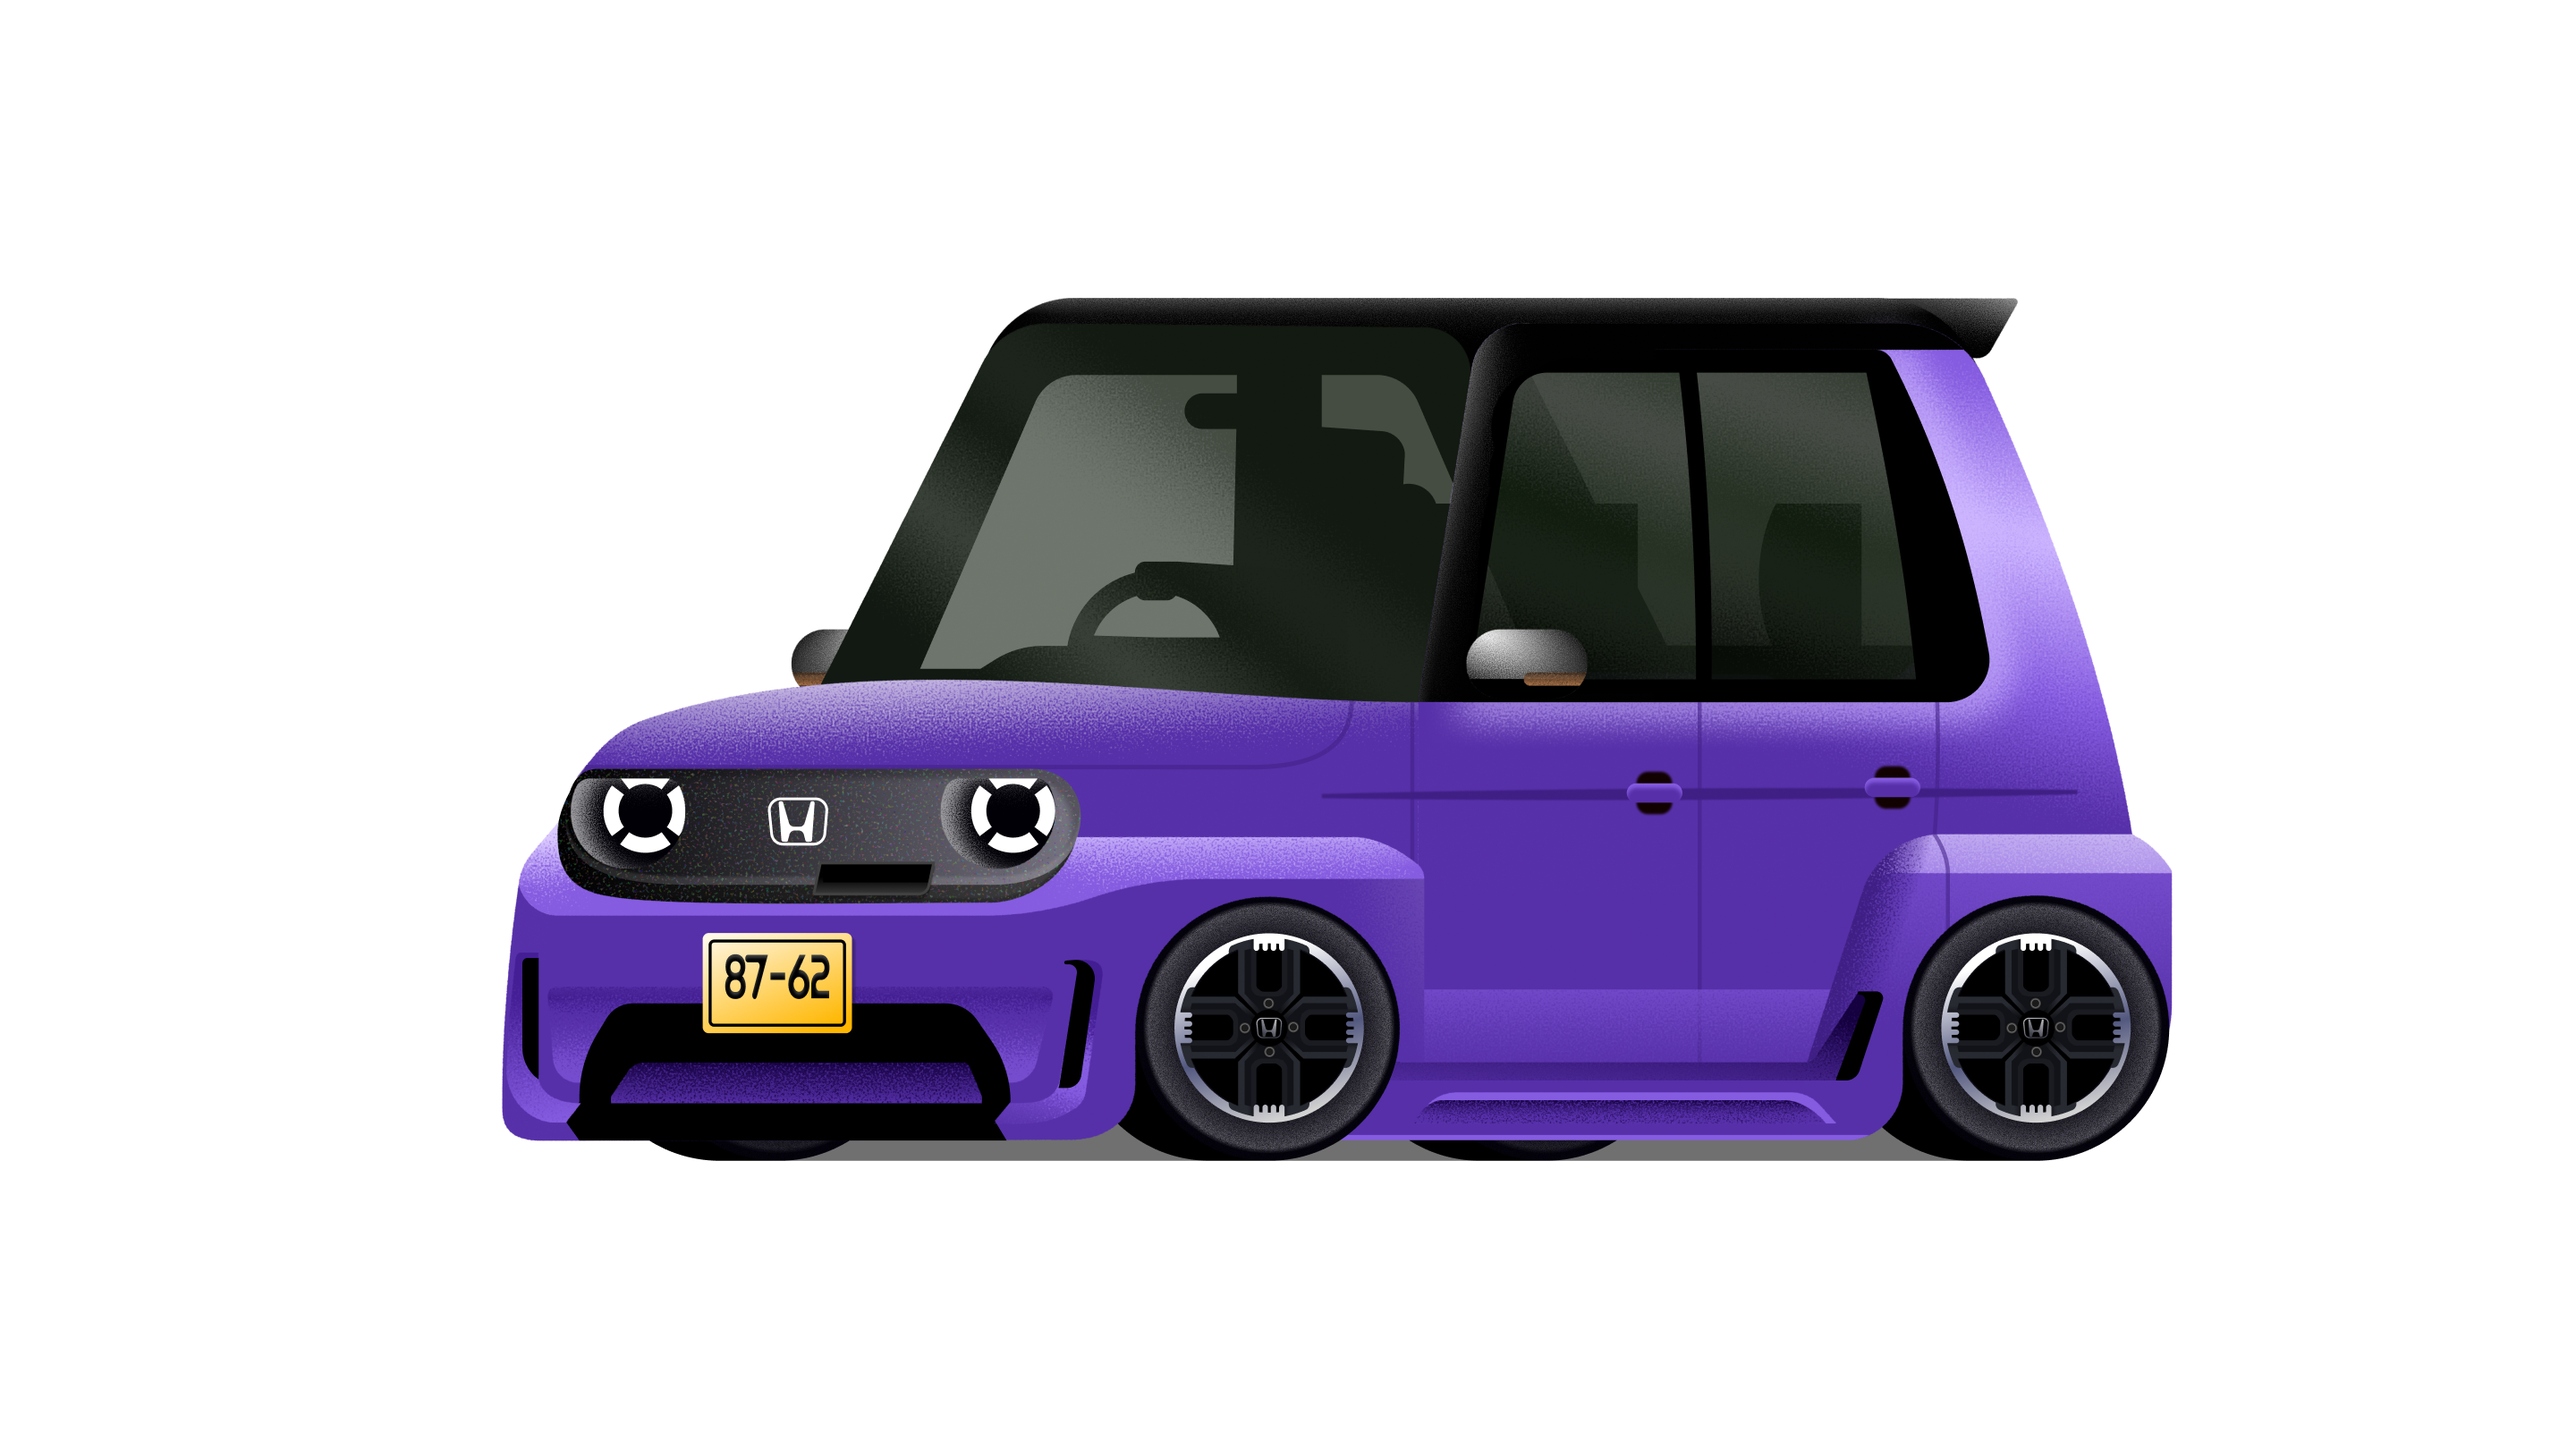
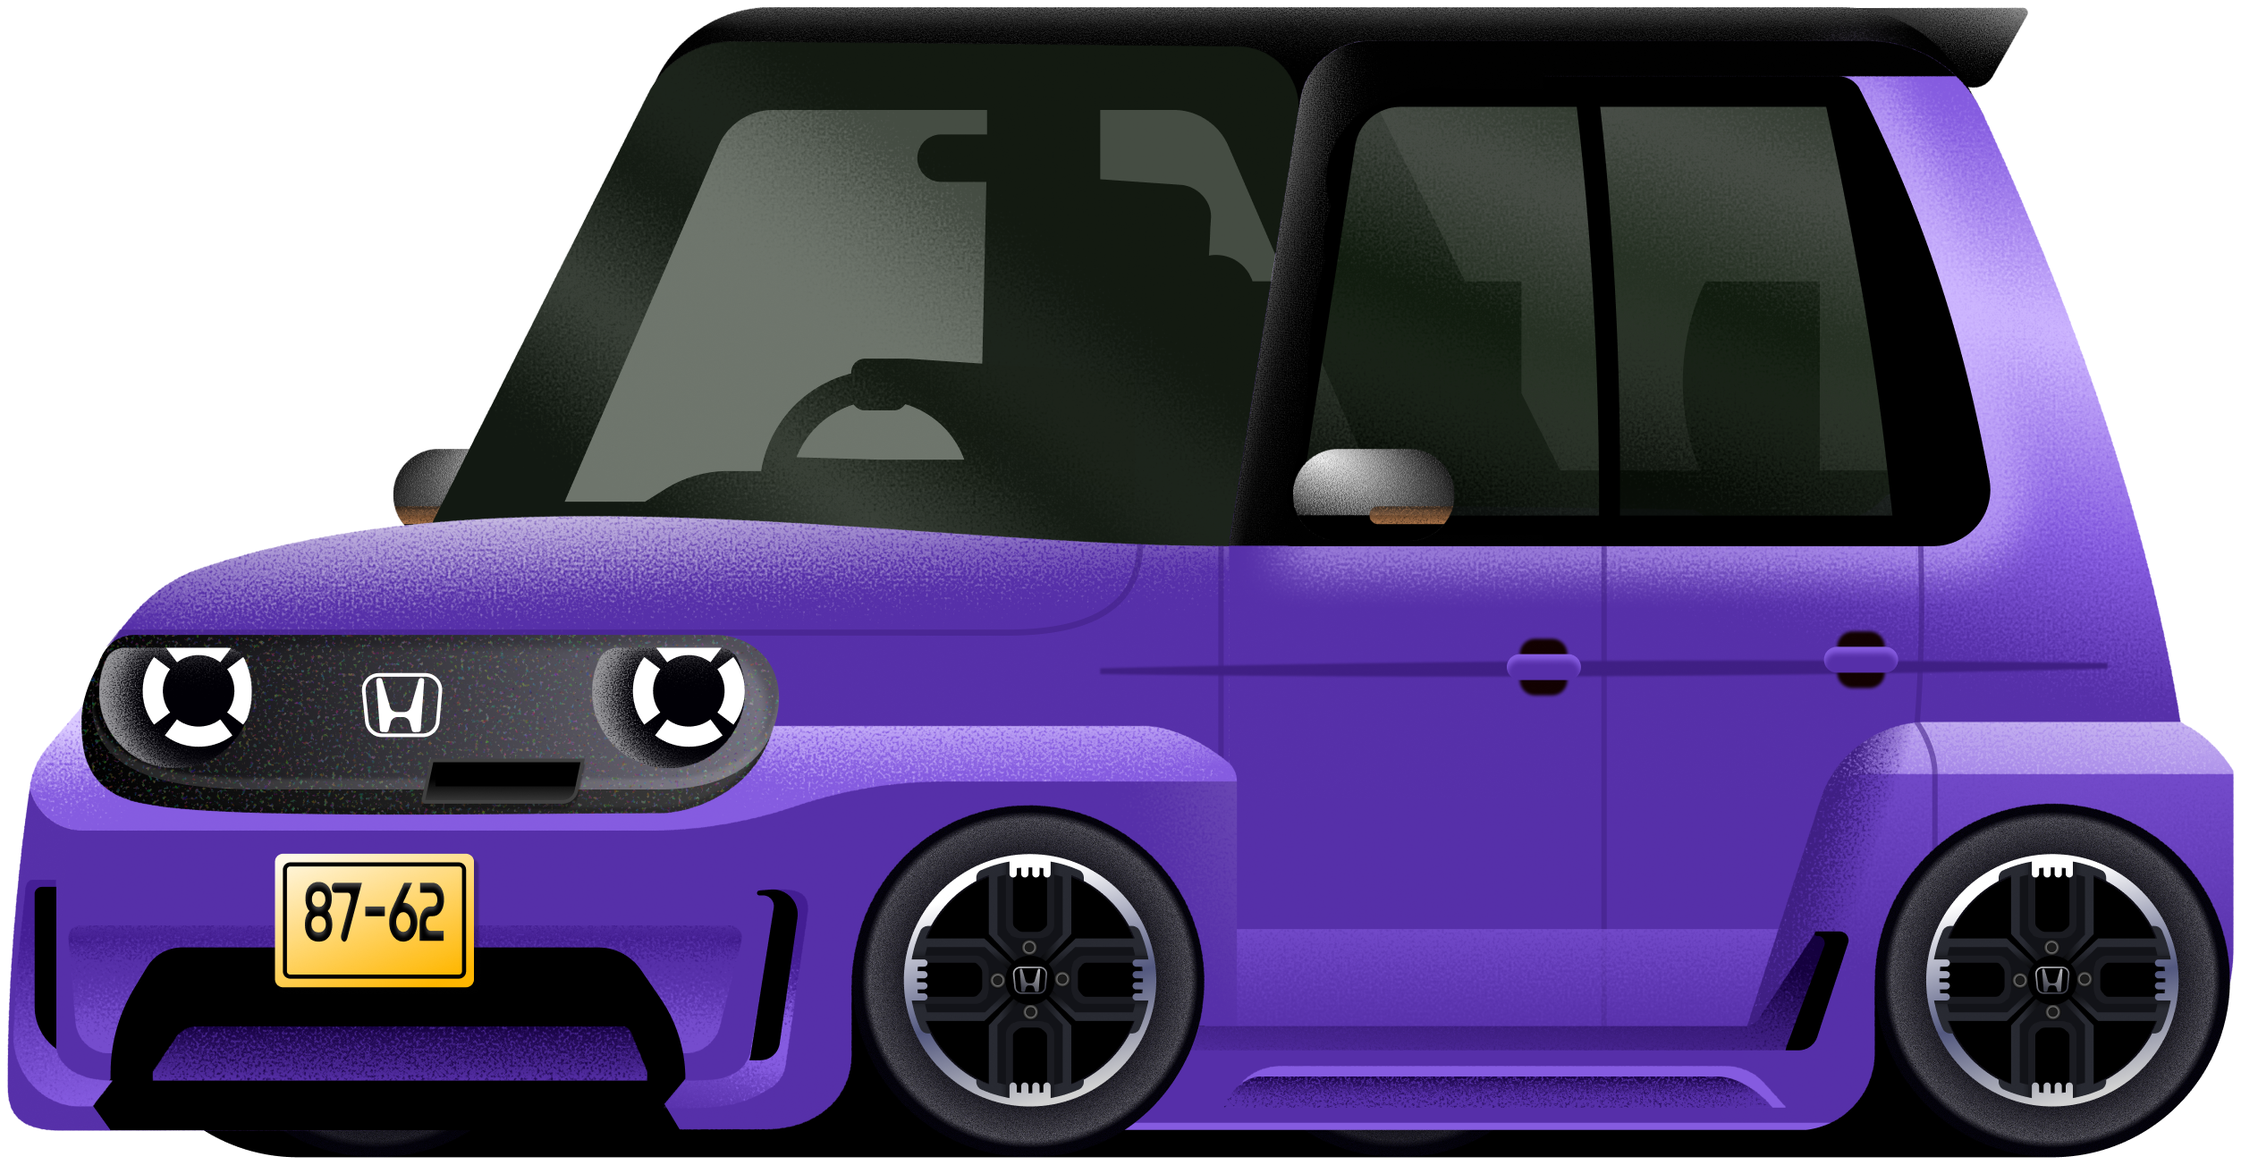
content(home): size the Super N hero cut-out back up with a new render

diff --git a/components/home/drifting-hero.tsx b/components/home/drifting-hero.tsx
@@ -114,9 +114,9 @@ const OBJECTS: DriftObject[] = [
     id: "work",
     src: "/illustrations/objects/car-super-n.png",
     alt: "",
-    /* 0.3 -> 0.24 per Josh -- swapped from the blue Honda to the purple Super N. */
-    width: 0.24,
-    aspect: 1.936,
+    /* Swapped from the blue Honda to the purple Super N, sized up per Josh. */
+    width: 0.3,
+    aspect: 1.923,
     angle: rad(320),
     rx: 0.3,
     ry: 0.31,
